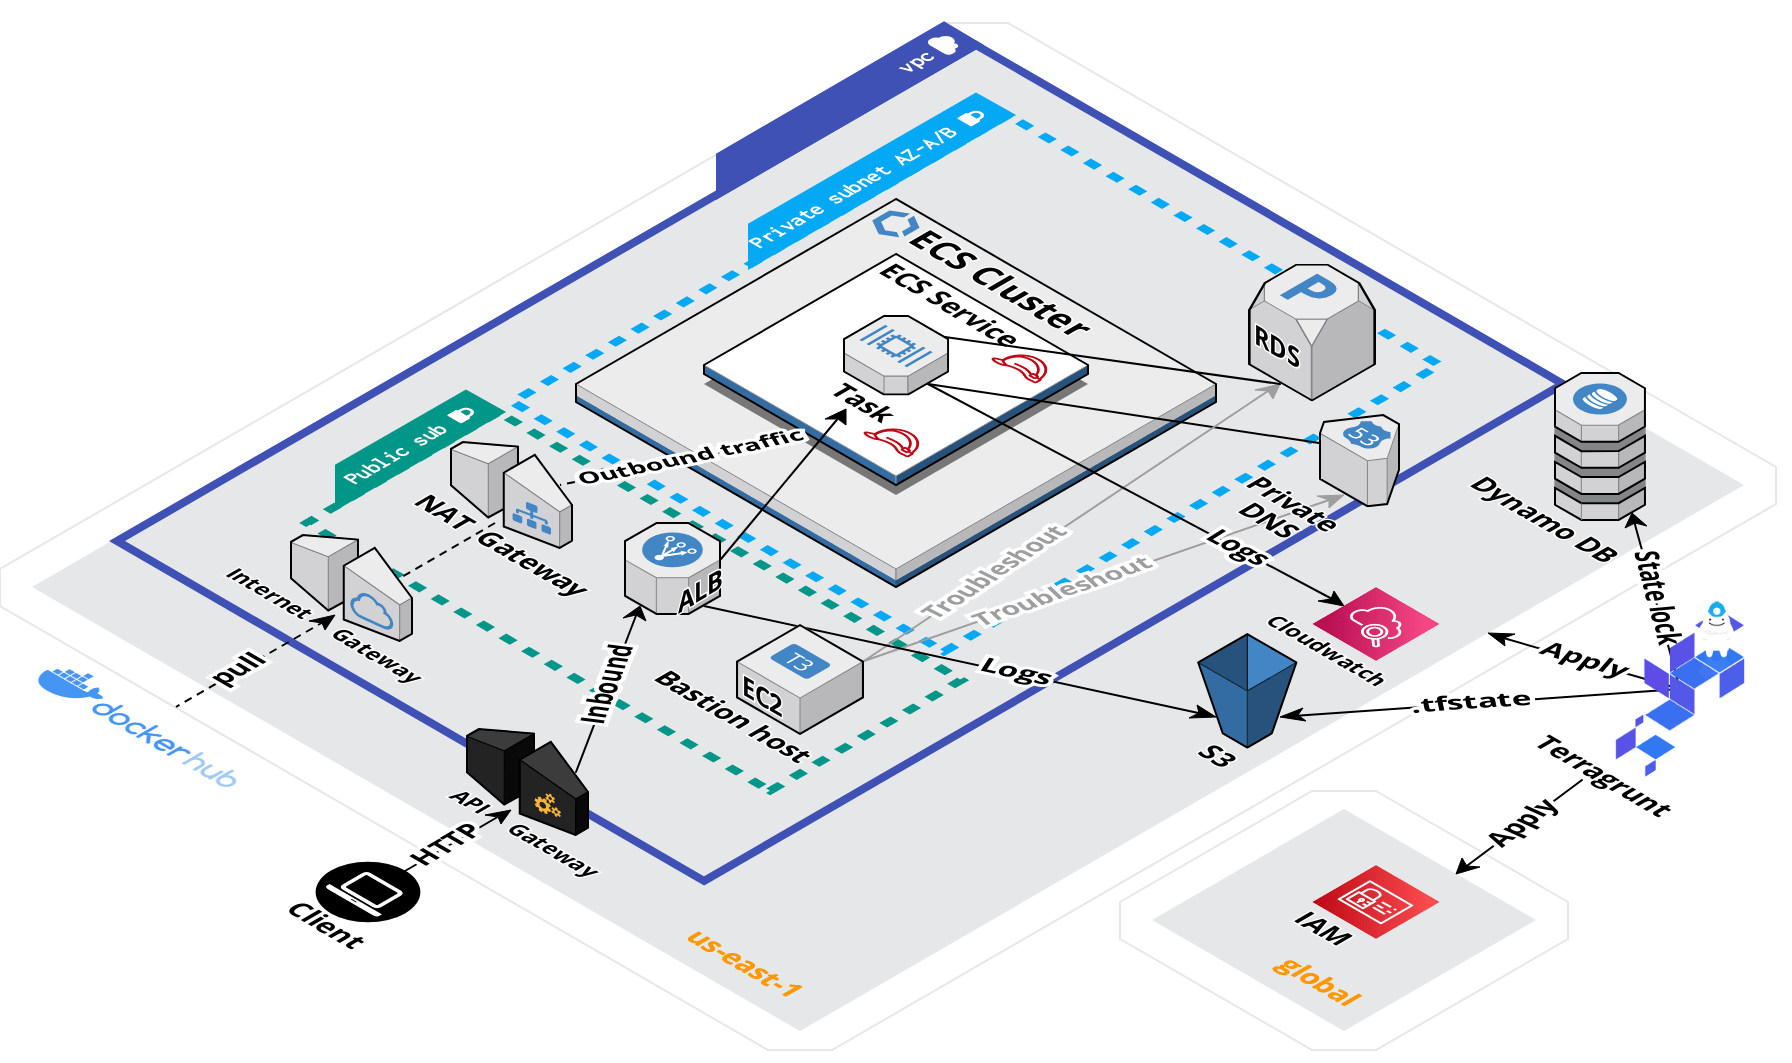
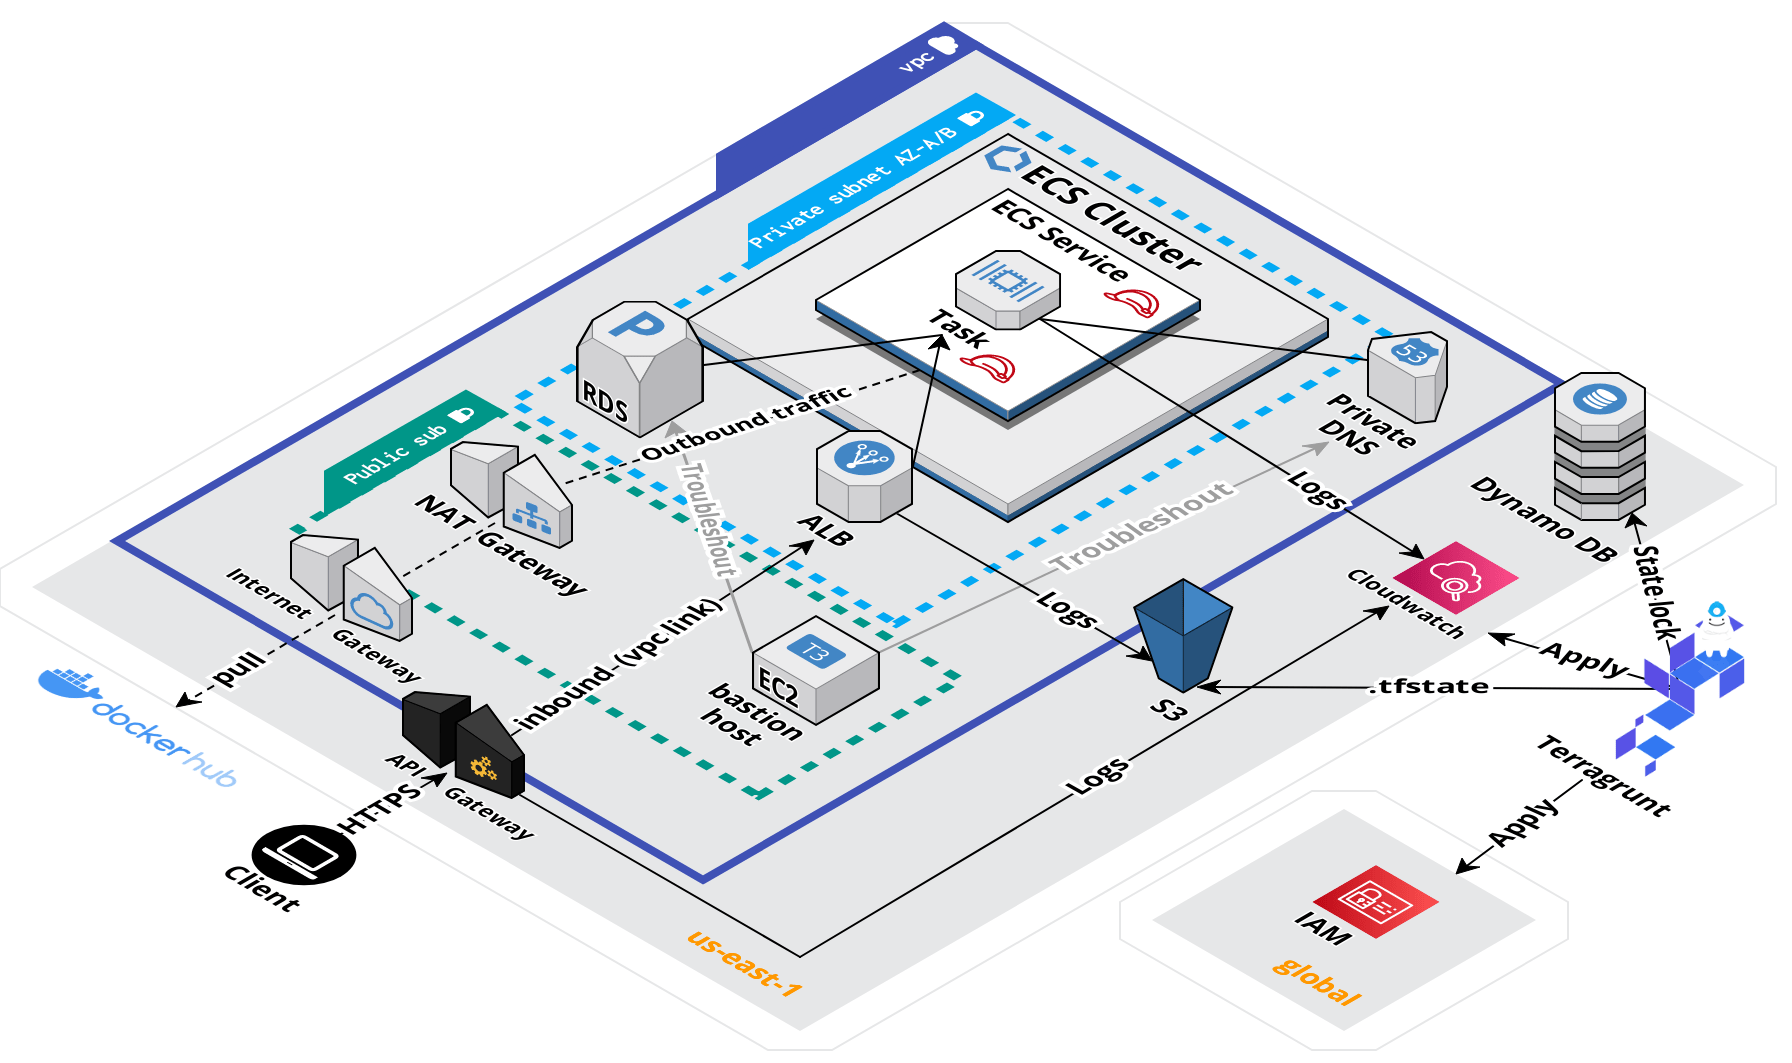
stable version

diff --git a/app/config/gunicorn.py b/app/config/gunicorn.py
@@ -1,6 +1,8 @@
 import multiprocessing
 
 # Detailed explanation on https://realpython.com/django-nginx-gunicorn
+# Also check out the exhaustive example config
+# https://github.com/benoitc/gunicorn/blob/master/examples/example_config.py
 
 # The number of worker processes for handling requests
 workers = multiprocessing.cpu_count() * 2 + 1
@@ -11,3 +13,9 @@ bind = "0.0.0.0:5000"
 # Explanation about the --timeout argument below
 # https://github.com/benoitc/gunicorn/issues/1801
 timeout = 1000
+
+# Log to stdout
+logfile = "-"
+loglevel = "info"
+accesslog = '-'
+access_log_format = '%(h)s %(l)s %(u)s %(t)s "%(r)s" %(s)s %(b)s "%(f)s" "%(a)s"'

diff --git a/terraform/README.md b/terraform/README.md
@@ -420,7 +420,12 @@ Module path:
 
 Resources added:
 
-- Application Load Balancer
+- Application Load Balancer:
+  - Listens on port 80
+  - Store the access logs in `financial-data-api-demo-alb-logs`
+  - Health check the target group at `_healthcheck` endpoint
+
+The role of the ALB will be to balance requests amongst resources in the target group. The ALB is also calling the `_healthcheck` endpoint every 30 seconds and temporarily remove the resource from availability if it is judged not healthy.
 
 You can check that your app is healthy in EC2 > Target groups:
 
@@ -429,6 +434,10 @@ You can check that your app is healthy in EC2 > Target groups:
 Note that the ALB communicates with the ECS task using the private IP.
 
 > Pro tip: If the ALB keeps draining (restarting containers while preventing breaking open network connections) the ECS service it probably means the security group of the service isn't properly setup
+
+To check the access logs of the ALB you can leverage S3 Select as shown in this picture:
+
+<img src="../docs/img/alb_logs.png" width="500"/>
 
 #### Associated costs
 
@@ -475,17 +484,9 @@ Two IAM roles are needed here, the previously created `ecs_task_execution_role` 
 
 Note that in the task definition we use the `awsvpc` network mode (cf [best practices](https://docs.aws.amazon.com/AmazonECS/latest/bestpracticesguide/application.html)) and maps the container port 5000 (gunicorn server) with the host however we only want to expose the Nginx server that runs on port 80. That's when the security-group at service level becomes useful as it is only allowing incoming traffic from port 80.
 
-Using the Public IP of the ECS service (you can easily find it in the web-console as shown be below).
+We can verify that our 2 containers are up and running in the ECS web-console as shown be below.
 
-<img src="../docs/img/ecs_public_ip.png" width="300"/>
-
-We can now access our API from the web browser:
-
-<img src="../docs/img/api_request_example.png" width="700"/>
-
-> Note that not precising any specific port will default the request to port 80.
-
-I did not bother buying a public domain name for this demo but in practice we would want a HTTPS endpoint with a more readable name like "mysuperapi.com". Also you would need to assign an elastic IP to the ECS service or its public IP will change every time you redeploy the resource. If your API isn't meant to be public and you want to restrict access to certain users only [AWS Cognito](https://aws.amazon.com/cognito/) is doing a great job at user management and authentication for the backend API.
+<img src="../docs/img/ecs_running.png" width="500"/>
 
 #### Associated costs
 
@@ -506,12 +507,43 @@ Module path:
 
 Resources added:
 
-- ABCD
+- API Gateway
+  - Route "financial-data-api/{proxy+}"
+  - ALB integration with VPC Link
+- Cloudwatch group `/aws/debug_apigateway`
 
-Amazon API Gateway has many features but the features we are interested in here are the authentication feature where Amazon API Gateway leverages IAM and AWS Cognito (Not implementd in this demo) and the load balancing capabilities.
+Amazon API Gateway has many features including authentication where Amazon API Gateway can leverage IAM and AWS Cognito (not implementd in this demo) for user management.
 
+API Gateway uses path-based routing to map a path to a back-end service. In this demo we access our back-end service with a request of the form `<api gateway uri>/<route>/<proxy>` where the route is "financial-data-api", this route is not forwarded to the backend service, only the proxy part of the URL is forwarded thanks to the path mapping declared in the integration.
+
+AWS PrivateLink is a technology that provides private connectivity between VPCs and services. This allows the Amazon API Gateway to communicate with our ALB without going through the internet.
+
+As explained in [Introducing Amazon API Gateway Private Endpoints](https://aws.amazon.com/blogs/compute/introducing-amazon-api-gateway-private-endpoints/)
+
+```
+"Here’s how this works.
+
+API Gateway private endpoints are made possible via AWS PrivateLink interface VPC endpoints. Interface endpoints work by creating elastic network interfaces in subnets that you define inside your VPC. Those network interfaces then provide access to services running in other VPCs, or to AWS services such as API Gateway. When configuring your interface endpoints, you specify which service traffic should go through them."
+```
+
+We can now access our API from the web browser:
+
+in API Gateway > Details:
+<img src="../docs/img/api_gw.png" width="700"/>
+
+<img src="../docs/img/api_request_example.png" width="700"/>
+
+I did not bother buying a public domain name for this demo but in practice we would want a HTTPS endpoint with a more readable name like "mysuperapi.com".
 
 #### Associated costs
+
+|   Pricing per VPC endpoint per AZ ($/hour)  | Pricing per GB of Data Processed ($)* |
+|:-------------------------------------------:|:-------------------------------------:|
+|              0.01 (ie $80/year)             |                 0.01                  |
+
+**First 1 PB, check out [AWS PrivateLink pricing](https://aws.amazon.com/privatelink/pricing/) for more info*
+
+The [API Gateway free tier](https://aws.amazon.com/api-gateway/pricing/) includes one million HTTP API calls, one million REST API calls, one million messages, and 750,000 connection minutes per month for up to 12 months.
 
 ## 5 - Clean up
 

diff --git a/terraform/live/dev/api-gateway/README.md b/terraform/live/dev/api-gateway/README.md
@@ -1,0 +1,37 @@
+## Requirements
+
+| Name | Version |
+|------|---------|
+| <a name="requirement_aws"></a> [aws](#requirement\_aws) | ~> 4.0 |
+
+## Providers
+
+| Name | Version |
+|------|---------|
+| <a name="provider_aws"></a> [aws](#provider\_aws) | 4.38.0 |
+| <a name="provider_terraform"></a> [terraform](#provider\_terraform) | n/a |
+
+## Modules
+
+| Name | Source | Version |
+|------|--------|---------|
+| <a name="module_api_gateway"></a> [api\_gateway](#module\_api\_gateway) | terraform-aws-modules/apigateway-v2/aws | ~>2.2 |
+
+## Resources
+
+| Name | Type |
+|------|------|
+| [aws_cloudwatch_log_group.debug_apigateway](https://registry.terraform.io/providers/hashicorp/aws/latest/docs/resources/cloudwatch_log_group) | resource |
+| [terraform_remote_state.alb](https://registry.terraform.io/providers/hashicorp/terraform/latest/docs/data-sources/remote_state) | data source |
+| [terraform_remote_state.sg](https://registry.terraform.io/providers/hashicorp/terraform/latest/docs/data-sources/remote_state) | data source |
+| [terraform_remote_state.vpc](https://registry.terraform.io/providers/hashicorp/terraform/latest/docs/data-sources/remote_state) | data source |
+
+## Inputs
+
+| Name | Description | Type | Default | Required |
+|------|-------------|------|---------|:--------:|
+| <a name="input_aws_log_group"></a> [aws\_log\_group](#input\_aws\_log\_group) | Log group for the api-gateway | `string` | n/a | yes |
+
+## Outputs
+
+No outputs.

diff --git a/terraform/live/dev/alb/README.md b/terraform/live/dev/alb/README.md
@@ -1,0 +1,36 @@
+## Requirements
+
+| Name | Version |
+|------|---------|
+| <a name="requirement_aws"></a> [aws](#requirement\_aws) | ~> 4.0 |
+
+## Providers
+
+| Name | Version |
+|------|---------|
+| <a name="provider_terraform"></a> [terraform](#provider\_terraform) | n/a |
+
+## Modules
+
+| Name | Source | Version |
+|------|--------|---------|
+| <a name="module_ecs_alb"></a> [ecs\_alb](#module\_ecs\_alb) | terraform-aws-modules/alb/aws | ~> 8.0 |
+
+## Resources
+
+| Name | Type |
+|------|------|
+| [terraform_remote_state.iam](https://registry.terraform.io/providers/hashicorp/terraform/latest/docs/data-sources/remote_state) | data source |
+| [terraform_remote_state.sg](https://registry.terraform.io/providers/hashicorp/terraform/latest/docs/data-sources/remote_state) | data source |
+| [terraform_remote_state.vpc](https://registry.terraform.io/providers/hashicorp/terraform/latest/docs/data-sources/remote_state) | data source |
+
+## Inputs
+
+No inputs.
+
+## Outputs
+
+| Name | Description |
+|------|-------------|
+| <a name="output_http_tcp_listener_arns"></a> [http\_tcp\_listener\_arns](#output\_http\_tcp\_listener\_arns) | The ARN of the TCP and HTTP load balancer listeners created. |
+| <a name="output_target_group_arns"></a> [target\_group\_arns](#output\_target\_group\_arns) | ARNs of the target groups. |

diff --git a/README.md b/README.md
@@ -47,7 +47,7 @@ This repo is a demo project for dockerized flask applications (REST API). This s
 
 - Multi AZ serverless architecture:
   - VPC, Security-groups
-  - RDS DB, S3, Route53, ALB, API Gateway
+  - RDS DB, S3, Route53, ALB, API Gateway, AWS Private link
   - IAM configuration (RBAC)
   - AWS Secrets Manager
   - ECS with Fargate (Blue/Green deployment)
@@ -513,7 +513,7 @@ A good architecture design can be facilitated by following these [AWS General de
 Taking a Flask app from development to production is a demanding but rewarding process. There are a couple of areas that I have omitted but would need to be addressed in a real production environment such as:
 
 - Use [AWS Private Links](https://aws.amazon.com/privatelink/) for private connectivity between AWS resources
-- Securing the endpoints with HTTPS ([AWS Certificate Manager](https://aws.amazon.com/certificate-manager/))
+- Automatically rotate the DB password with AWS Secrets Manager and AWS Lambda
 - User management and authentication for the backend API ([AWS Cognito](https://aws.amazon.com/cognito/))
 - Adding monitoring/tracing tools (with Prometheus and Grafana for instance)
 - Protection from common web exploits ([Web Application Firewall](https://aws.amazon.com/marketplace/solutions/security/web-application-firewall))
